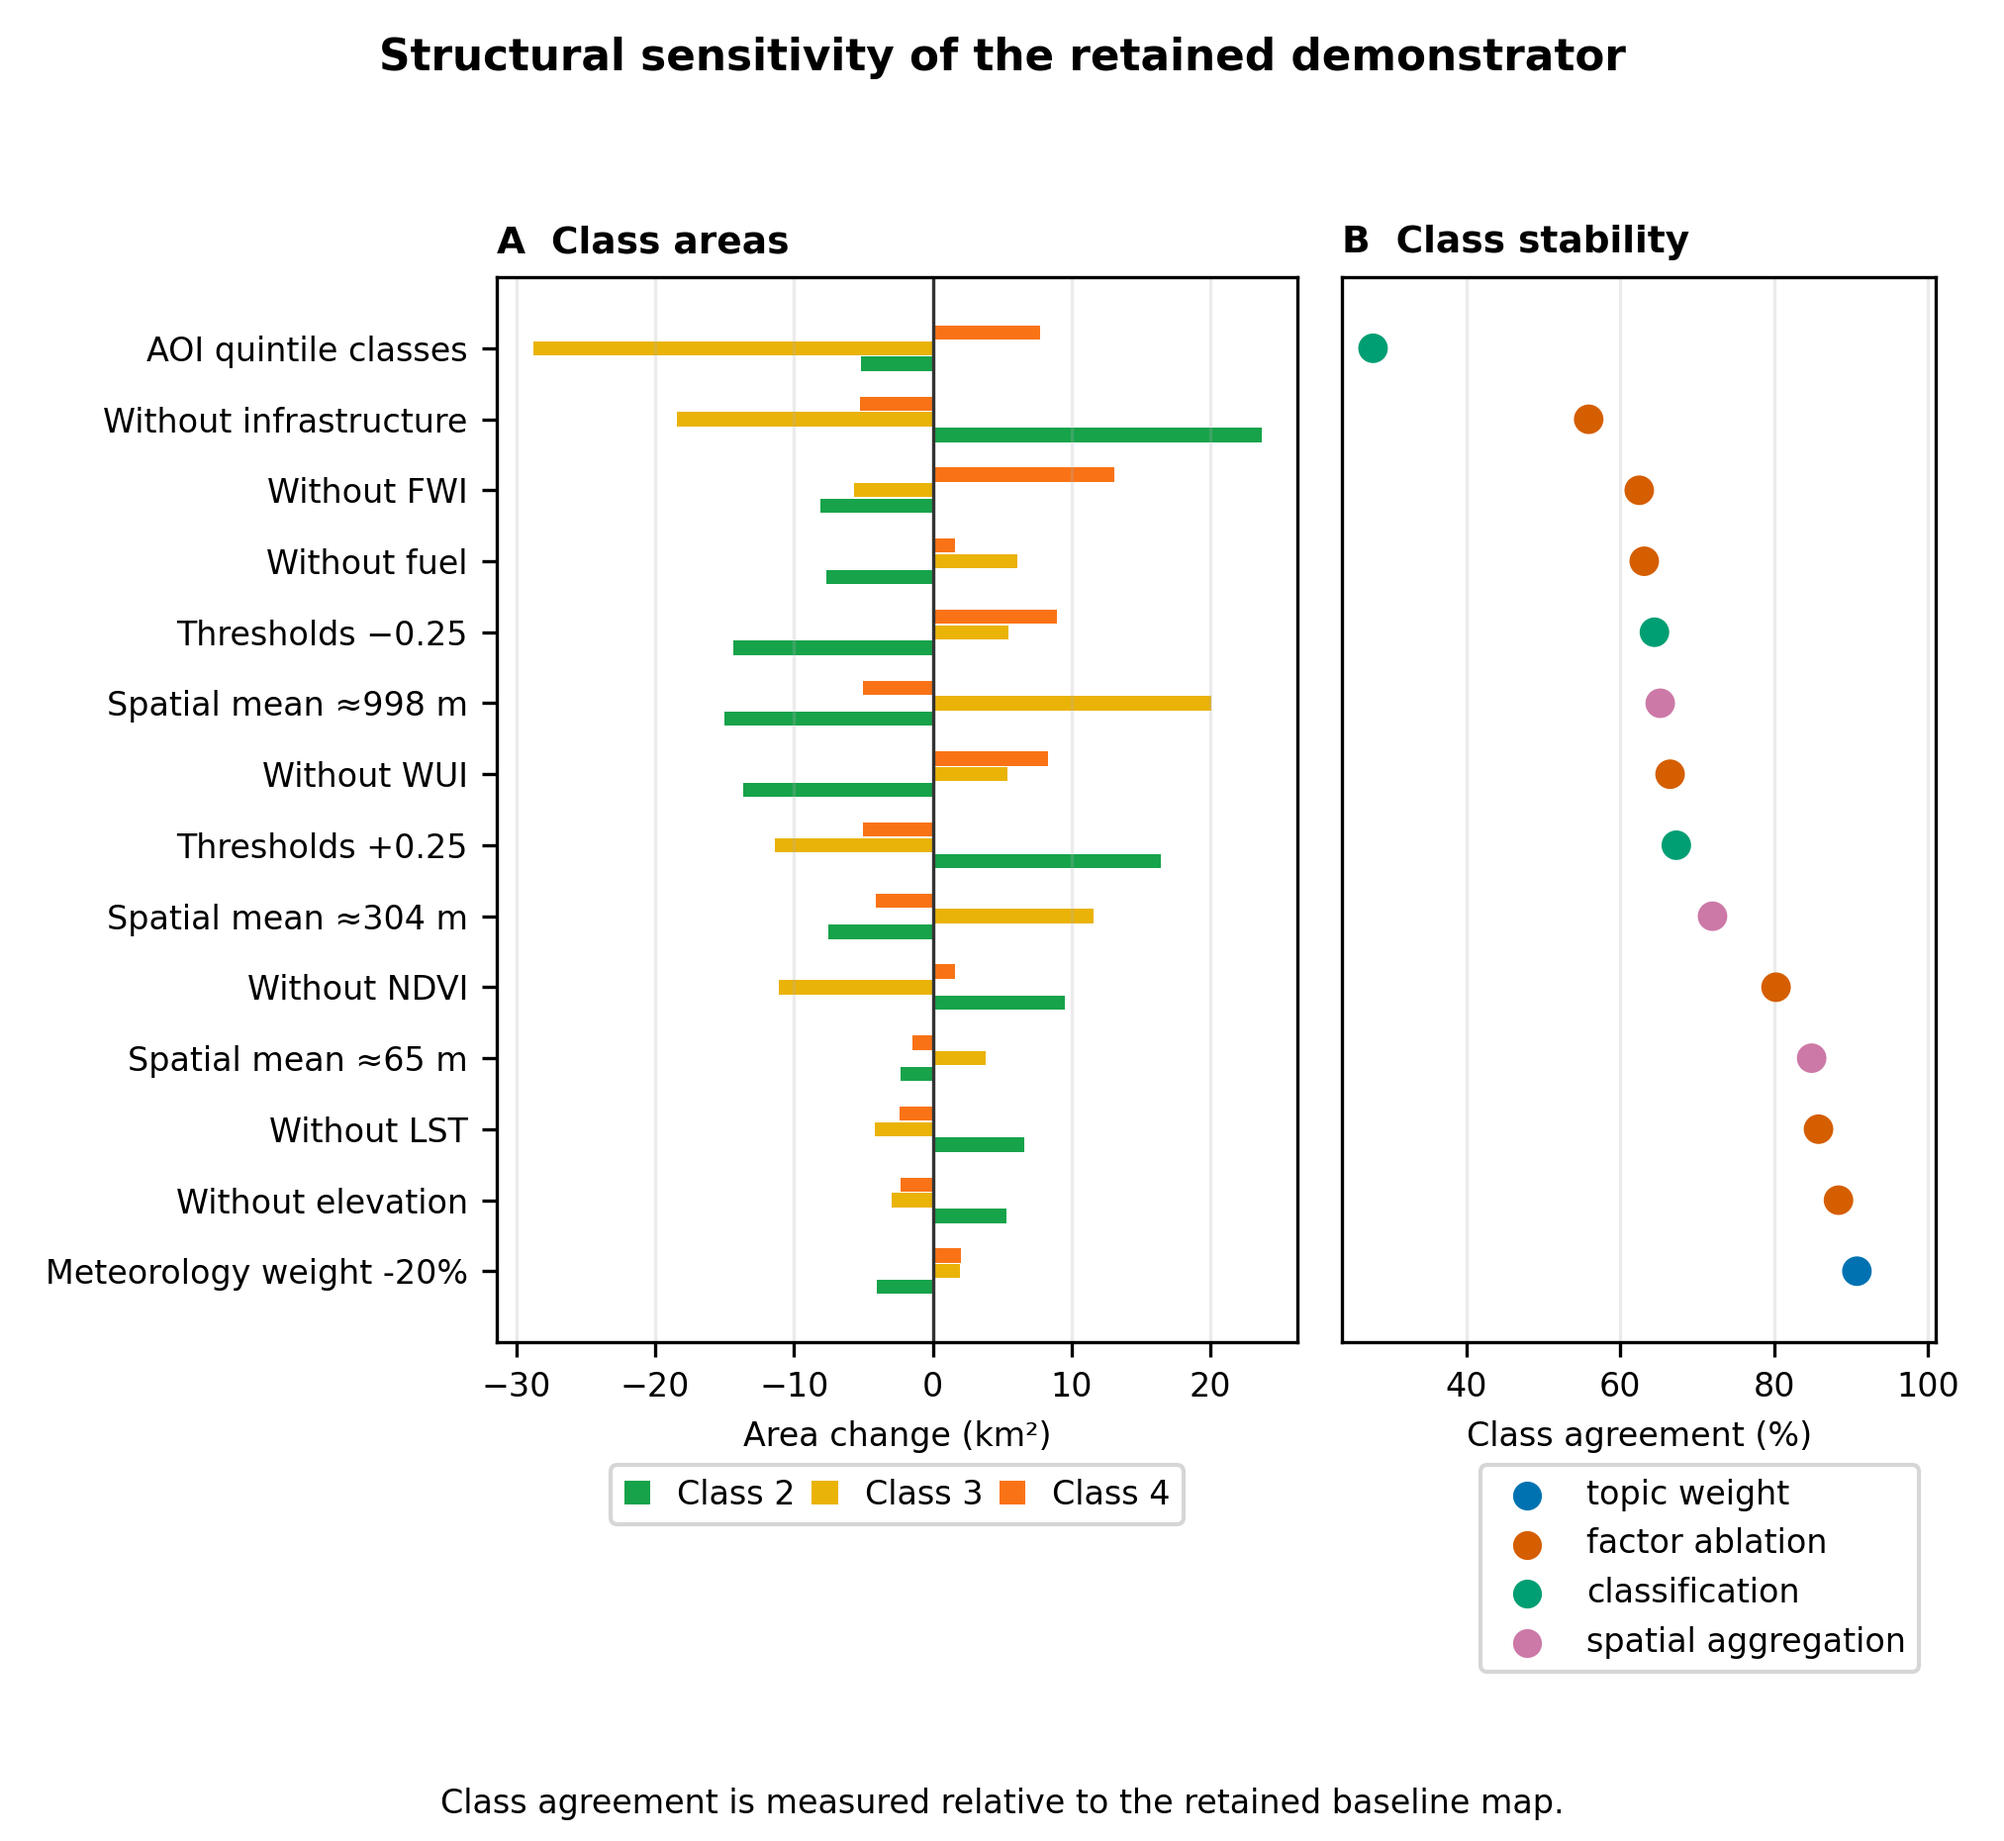
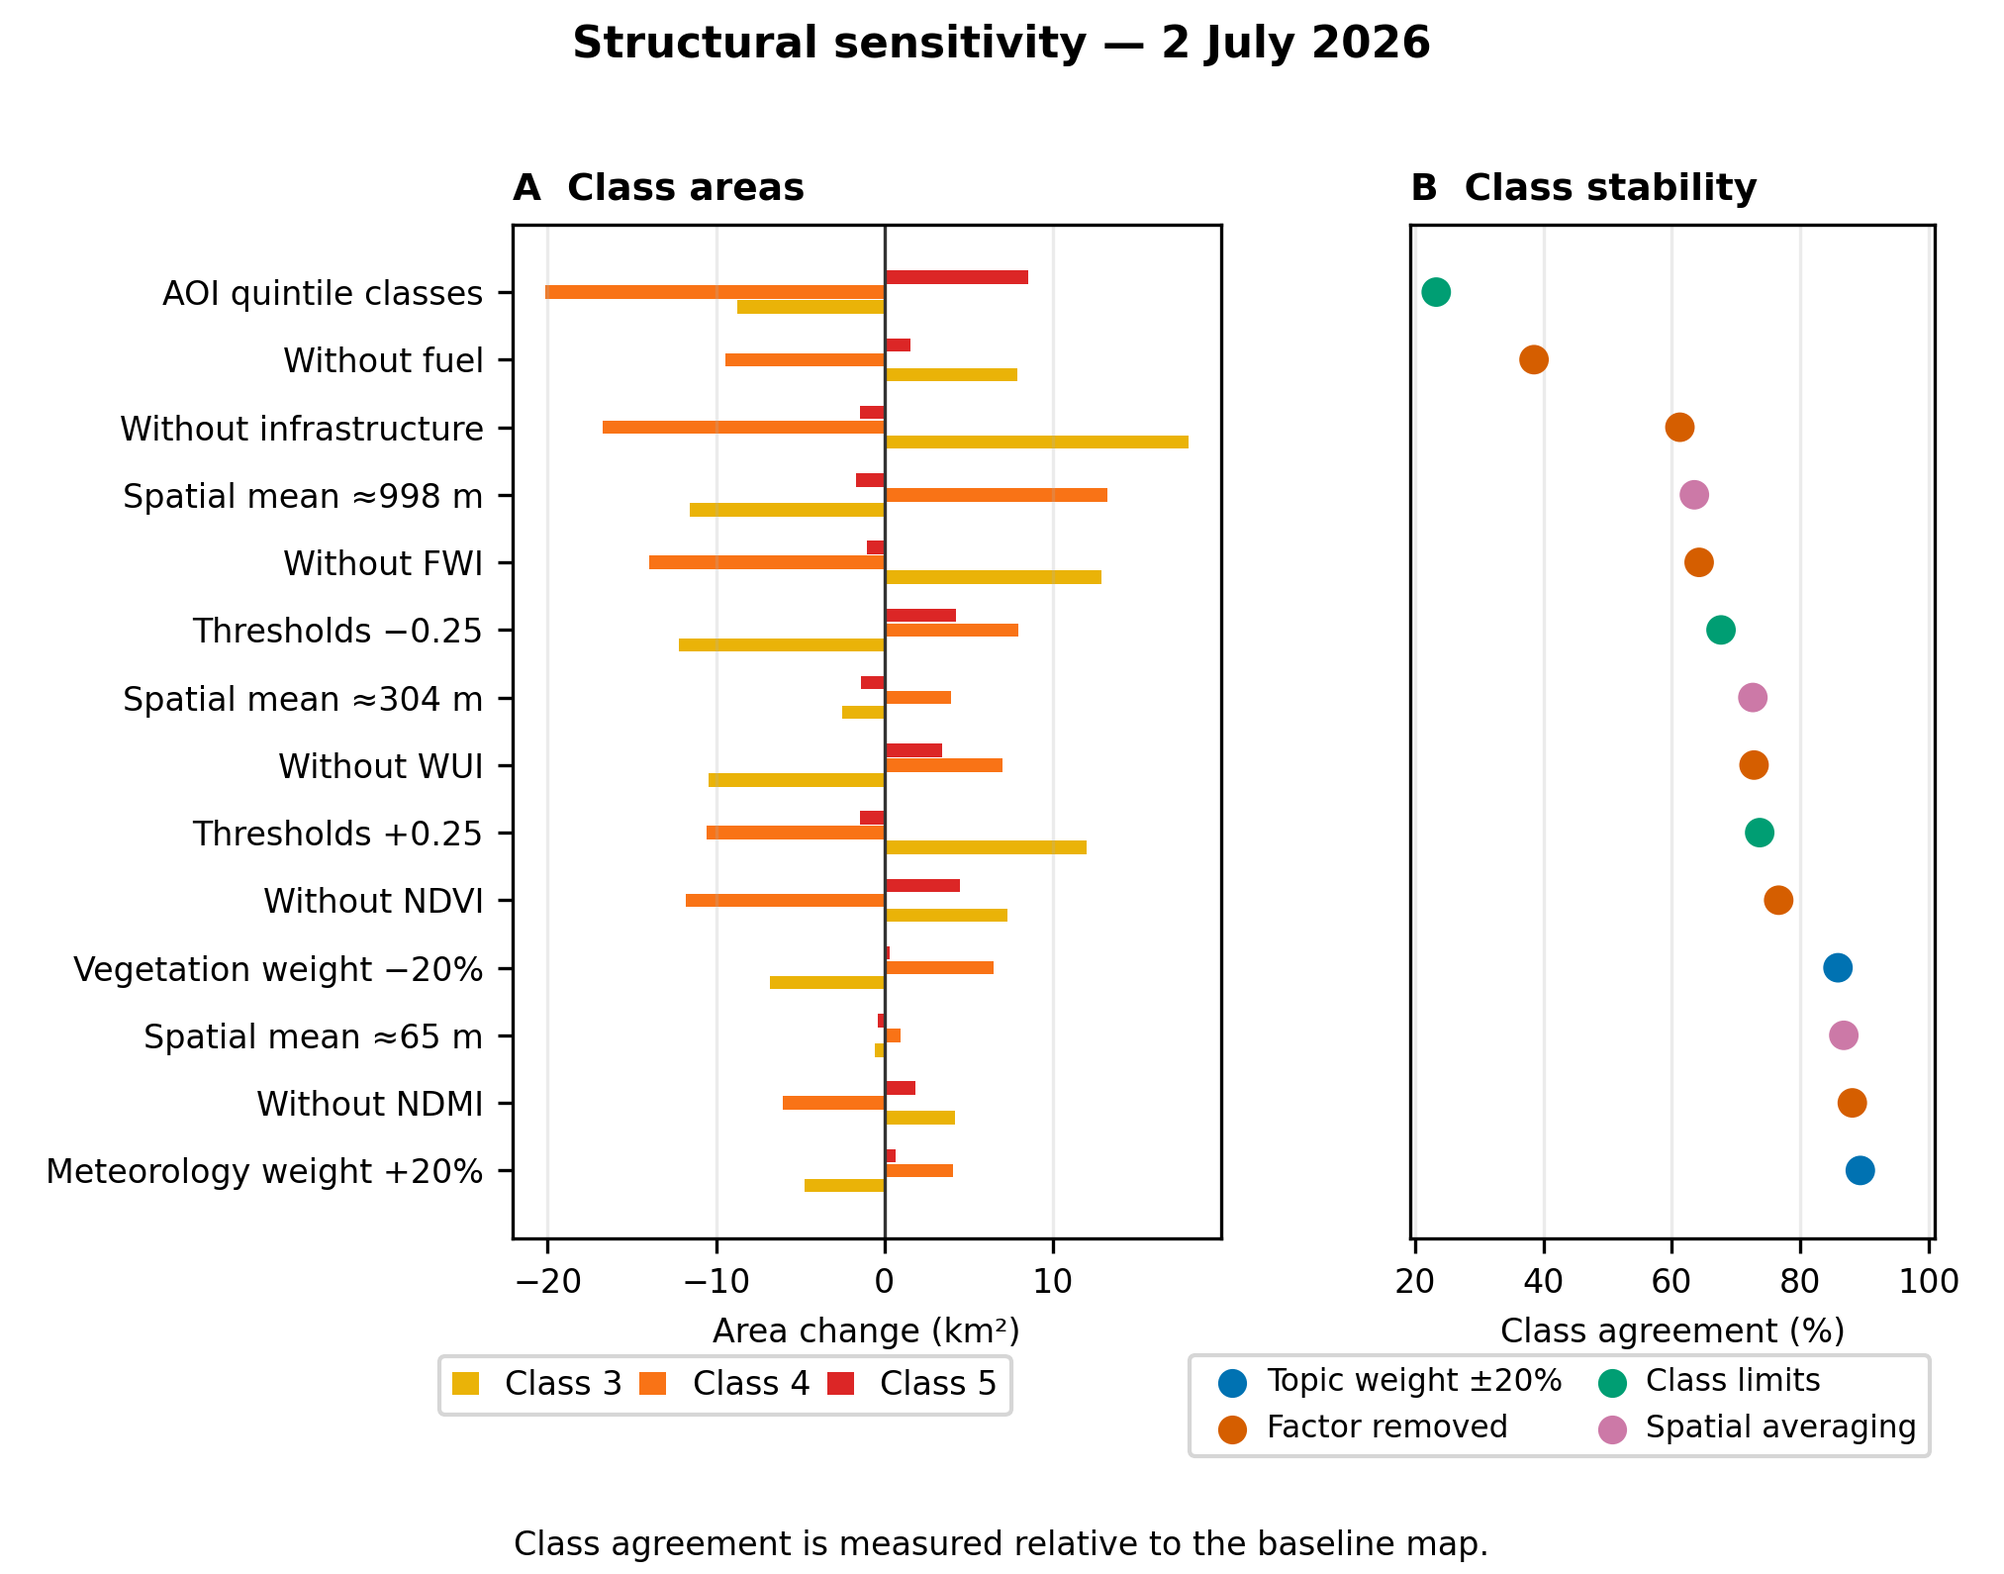
docs(readme): update figures to the seven-day paper run
Replace the README figures with those from the current manuscript,
based on the 29 June to 5 July 2026 dynamic run near Santiago de
Compostela, and add the seven-day series figure. Update the captions
for the peak-FWI day (2 July), the six factor panels and input
coverage, and drop the note about older scoring rules.

diff --git a/README.md b/README.md
@@ -28,15 +28,15 @@ The application is part of the **SpatialHub** ecosystem at TH Deggendorf, runnin
 
 ## Visualizations
 
-Figures from the accompanying manuscript, *Coverage-aware wildfire-danger mapping in Galicia, Spain: workflow and structural sensitivity* (in preparation). The example outputs come from a saved run for a 65.5 km² area near Santiago de Compostela on 2 May 2026.
+Figures from the accompanying manuscript, *Coverage-aware wildfire-danger mapping in Galicia, Spain: workflow and structural sensitivity* (in preparation). The example outputs come from a seven-day dynamic run (29 June to 5 July 2026) for a 66.7 km² area near Santiago de Compostela. The detailed figures show 2 July, the day with the highest Fire Weather Index (FWI) in that week.
 
 ### Wildfire-danger map
 
 <p align="center">
-  <img src=".github/assets/figures/main-map.png" alt="Wildfire-danger classes near Santiago de Compostela on 2 May 2026, with a configured-weight coverage panel and a Galicia locator" width="100%">
+  <img src=".github/assets/figures/main-map.png" alt="Wildfire-danger classes near Santiago de Compostela on 2 July 2026, with an area-by-class panel and a Galicia locator" width="100%">
 </p>
 
-Danger classes 1–5 on a ≈21.7 m grid (WGS 84 / UTM zone 29N), with a panel showing configured-weight coverage (the share of model inputs available in each cell) and a Galicia locator. Only classes 2–4 occur in this output.
+Danger classes 1–5 on a ≈21.7 m grid (WGS 84 / UTM zone 29N), with an area-by-class panel and a Galicia locator. Only classes 3–5 occur on this day: 37% class 3, 60% class 4 and 3% class 5 of the 51.0 km² mapped area.
 
 ### Processing workflow
 
@@ -54,13 +54,21 @@ Source acquisition, dated selection, harmonisation onto a common grid, scoring a
 
 Galicia, the four overlapping processing tiles used for regional runs, and the example area.
 
+### Seven-day series
+
+<p align="center">
+  <img src=".github/assets/figures/daily-series.png" alt="Daily class areas and mean FWI from 29 June to 5 July 2026, with maps for 29 June, 2 July and 5 July and a class-change map" width="90%">
+</p>
+
+Class areas and area-mean FWI for each day, maps for the first day, the peak-FWI day and the last day, and the class change over the week. The share of cells in classes 4–5 rose from 18% to 65%, but the classes stopped following FWI once it passed its top class limit.
+
 ### Input factors, danger index and coverage
 
 <p align="center">
-  <img src=".github/assets/figures/factors-and-coverage.png" alt="Four input factor scores, the continuous danger index, the classified map and coverage for 2 May 2026" width="90%">
+  <img src=".github/assets/figures/factors-and-coverage.png" alt="Six input factor scores, the continuous danger index, the classified map and input coverage for 2 July 2026" width="90%">
 </p>
 
-Four representative factor scores (elevation, fuel, infrastructure and FWI), the continuous danger index, the classified map and configured-weight coverage.
+Six factor scores (TWI, fuel, NDVI, NDMI, WUI and LST), the continuous danger index, the classified map and input coverage. Coverage is 1 wherever a danger value exists; purple cells lack a required input and have no danger value.
 
 ### Structural sensitivity
 
@@ -71,7 +79,7 @@ Four representative factor scores (elevation, fuel, infrastructure and FWI), the
 How the map changes when single factors are removed, topic weights change by ±20%, class boundaries shift or cells are averaged spatially. Shown for the 14 scenarios with the lowest agreement with the baseline map.
 
 > [!NOTE]
-> The example run used an earlier version of the scoring rules than the current engine. The danger index is experimental and has not been validated against observed fires.
+> The danger index is experimental and has not been validated against observed fires.
 
 ---
 
@@ -169,7 +177,7 @@ make setup
 
 ## Translations
 
-The web interface is available in 11 languages: English, Czech, Dutch, French, Galician, German, Greek, Italian, Polish, Portuguese, Spanish. English is the source language. The other translations in `wildfire-app/frontend/src/i18n/locales/` were generated with AI and have not been reviewed by native speakers, so they may contain errors. Corrections are welcome through issues or pull requests.
+The web interface is available in 11 languages: English, Czech, Dutch, French, Galician, German, Greek, Italian, Polish, Portuguese, Spanish. English is the source language. The other translations in `wildfire-app/frontend/src/i18n/locales/` **were generated with AI** and have not been reviewed by native speakers, so they may contain errors. Corrections are welcome through issues or pull requests.
 
 ---
 
